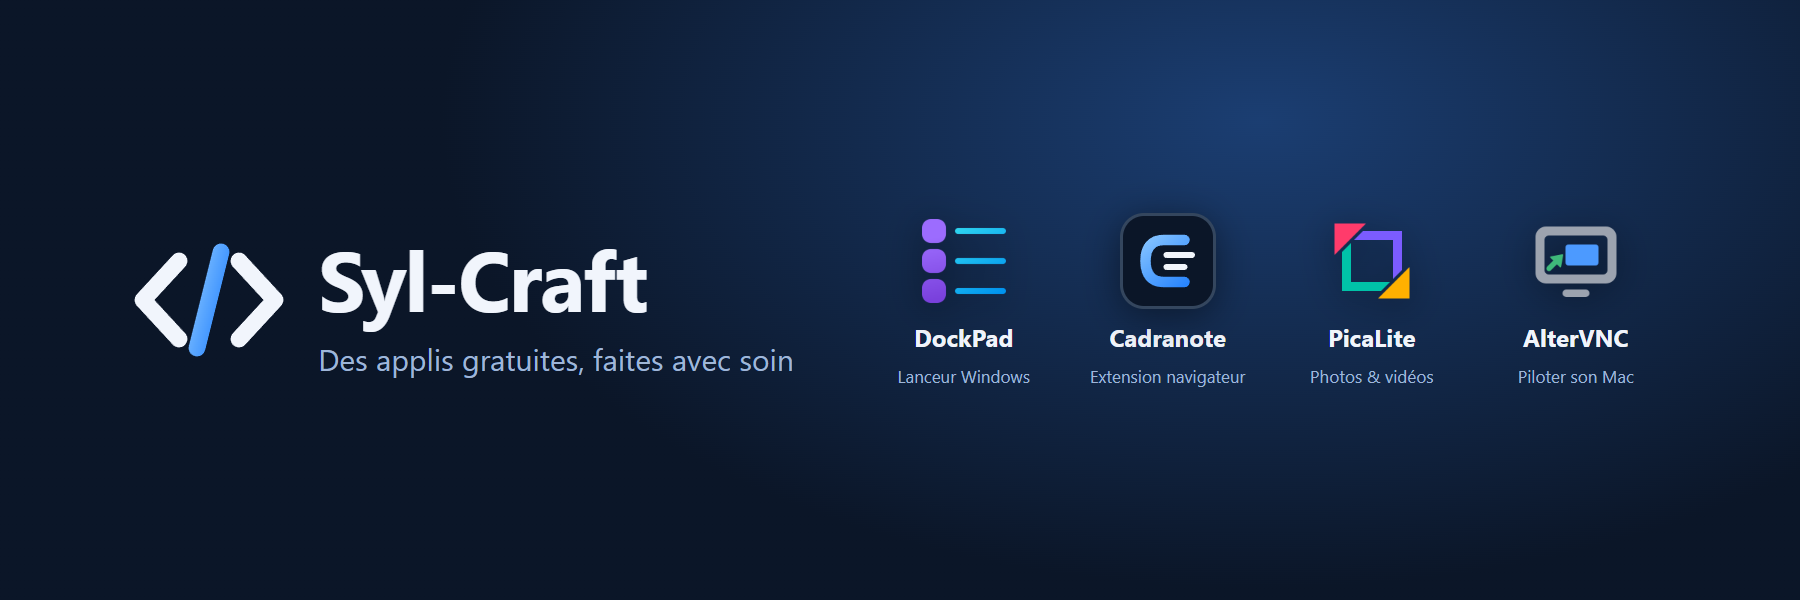
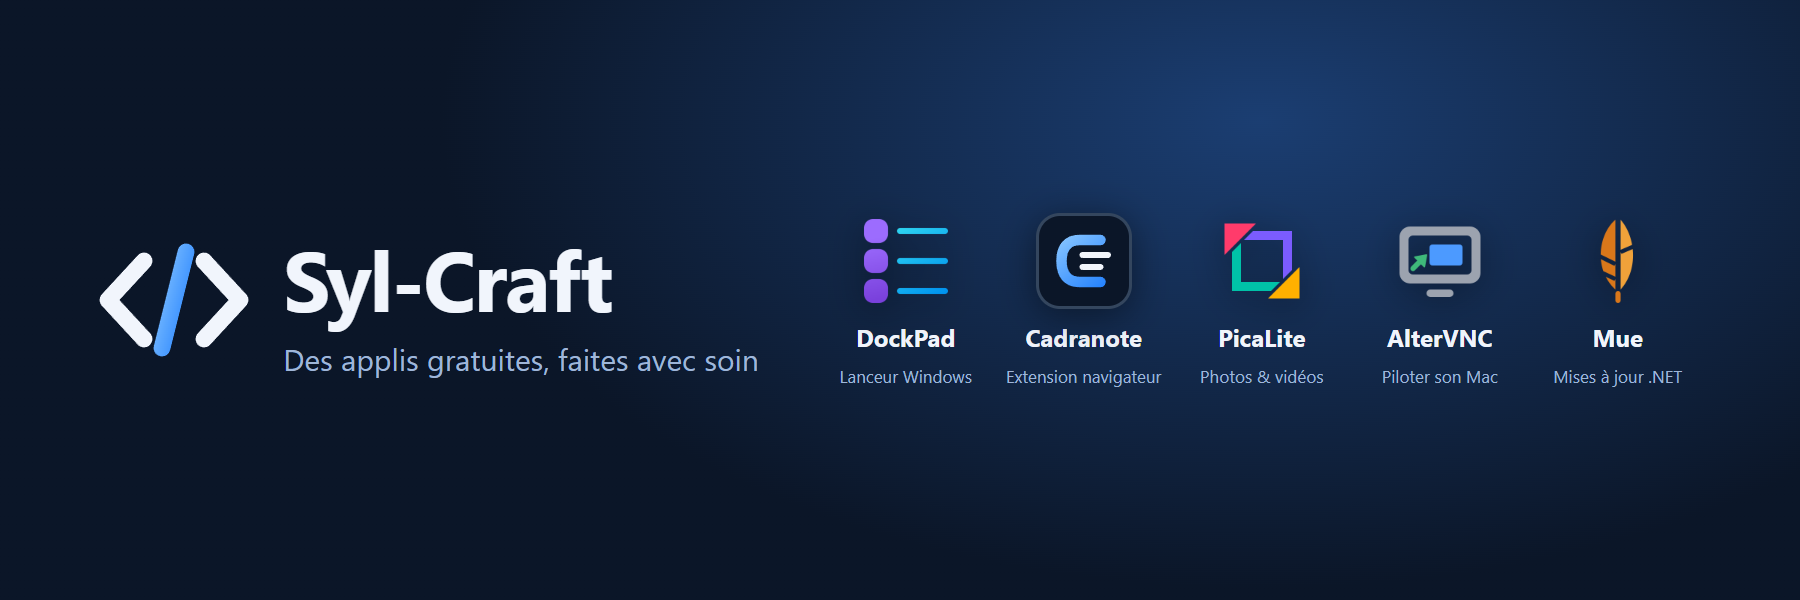
Profil GitHub : Mue dans le bandeau

Changed region(s): [[0.4667, 0.33, 0.9333, 0.66], [0.0311, 0.39, 0.4356, 0.63]]

diff --git a/README.md b/README.md
@@ -1,4 +1,4 @@
-<img src="banner.png" alt="Syl-Craft — des applis gratuites, faites avec soin : DockPad, Cadranote, PicaLite, AlterVNC" width="100%">
+<img src="banner.png" alt="Syl-Craft — des applis gratuites, faites avec soin : DockPad, Cadranote, PicaLite, AlterVNC, Mue" width="100%">
 
 Développeur indépendant, je crée des applis gratuites, sans pub ni abonnement.
 *Indie developer building free apps — no ads, no subscription.*
